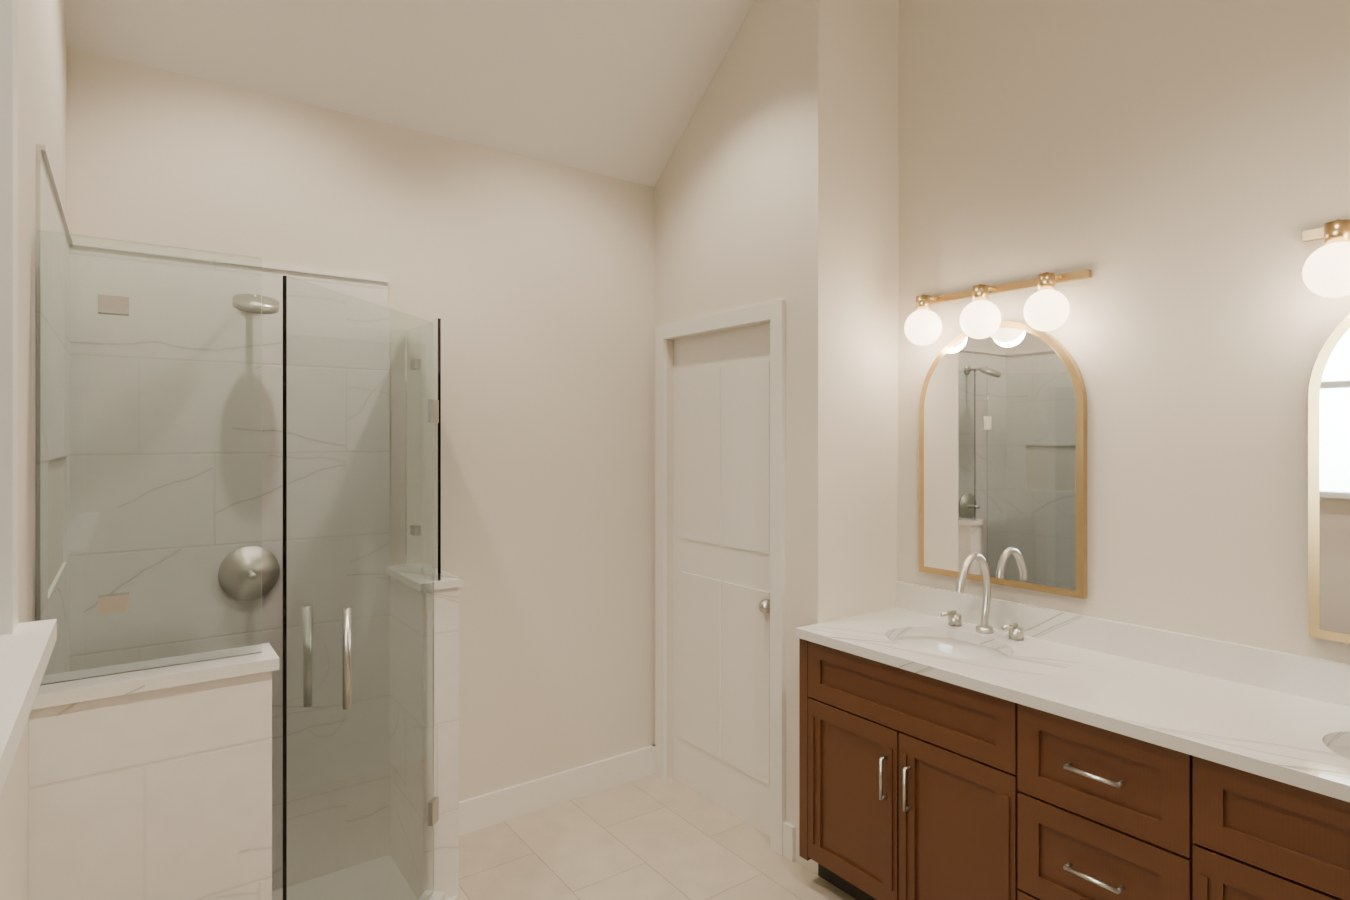
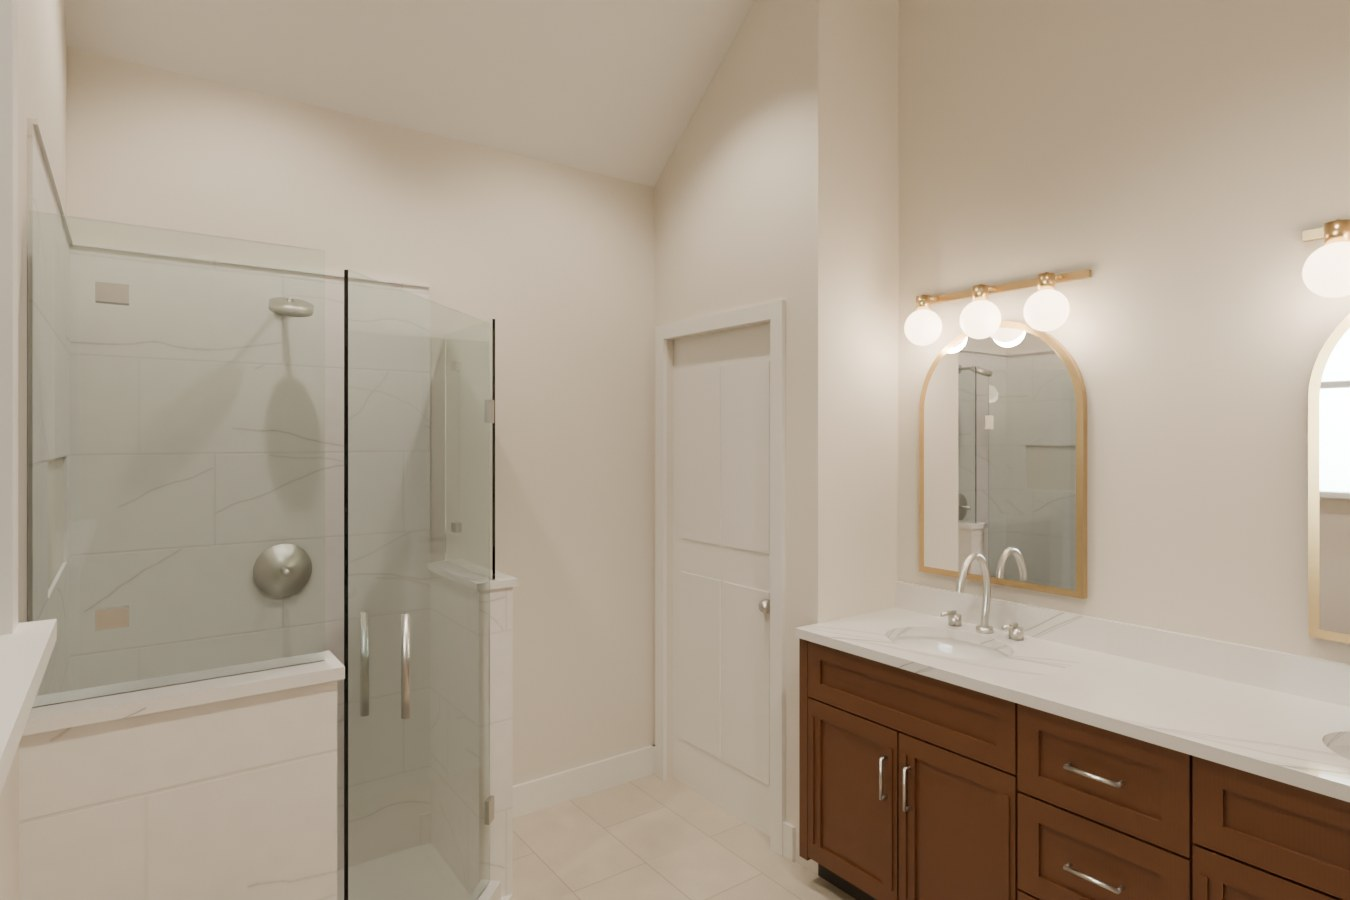
Olive Hill concept: Option 2 now 48x48 neo-angle; visible glass in walkthrough
Claude-Session: https://claude.ai/code/session_01SeE1aYPeiWt3ibgsh6fWaQ

diff --git a/concepts/olive-hill/walkthrough.html b/concepts/olive-hill/walkthrough.html
@@ -175,9 +175,9 @@ cyl(2.6,1.2,1.2,M.metal,84.5,78.6,D-6.6,Math.PI/2-0.45);
 cyl(2,2,0.1,M.metal,84.5,0.4,108);
 
 TARGET=scene;
-// ---------- OPTION 2: 42x42 neo-angle acrylic base, knee walls on both returns, neo-angle door ----------
+// ---------- OPTION 2: 48x48 neo-angle acrylic base, knee walls on both returns, neo-angle door ----------
 TARGET=optB;
-{ const X0=61, Y0=78, R=16, KW=5;
+{ const X0=55, Y0=78-6, R=20, KW=5;
   function prismXZ(pts,y0,y1,mat){ const sh=new THREE.Shape(); sh.moveTo(pts[0][0],pts[0][1]); for(const p of pts.slice(1)) sh.lineTo(p[0],p[1]); sh.lineTo(pts[0][0],pts[0][1]);
     const g=new THREE.ExtrudeGeometry(sh,{depth:y1-y0,bevelEnabled:false}); g.rotateX(Math.PI/2); g.translate(0,y1,0); const m=new THREE.Mesh(g,mat); m.receiveShadow=true; m.castShadow=true; optB.add(m); return m; }
   function seg(xa,za,xb,zb,th,y0,y1,mat){ const dx=xb-xa,dz=zb-za,L=Math.hypot(dx,dz),nx=-dz/L*th/2,nz=dx/L*th/2;
@@ -185,17 +185,24 @@ TARGET=optB;
   prismXZ([[X0,D],[X0,D-R],[W-R,Y0],[W,Y0],[W,D]],0,0.35,acryl);
   box(X0,X0+KW,0,42,D-R,D,M.tile); box(X0-0.5,X0+KW+0.5,42,43,D-R-0.5,D,M.quartz);
   box(W-R,W,0,42,Y0,Y0+KW,M.tile); box(W-R-0.5,W,42,43,Y0-0.5,Y0+KW+0.5,M.quartz);
-  glass(X0+2.3,X0+2.7,43,78,D-R+0.5,D-0.3); glass(W-R+0.5,W-0.3,43,78,Y0+2.3,Y0+2.7);
+  // glass: fixed panels on both knee walls, neo-angle door on the angle — with visible edges so it reads in 3D
+  const gNeo=new THREE.MeshPhysicalMaterial({color:'#dcebea',roughness:0.02,transparent:true,opacity:0.28,side:THREE.DoubleSide,envMapIntensity:1.5});
+  const edge=M.glassEdge;
+  box(X0+2.3,X0+2.7,43,78,D-R+0.5,D-0.3,gNeo,false); box(X0+2.2,X0+2.8,77.6,78,D-R+0.5,D-0.3,edge,false); box(X0+2.2,X0+2.8,43,78,D-R+0.3,D-R+0.6,edge,false);
+  box(W-R+0.5,W-0.3,43,78,Y0+2.3,Y0+2.7,gNeo,false); box(W-R+0.5,W-0.3,77.6,78,Y0+2.2,Y0+2.8,edge,false); box(W-R+0.3,W-R+0.6,43,78,Y0+2.2,Y0+2.8,edge,false);
+  for(const y of [48,72]){ box(X0+1.9,X0+3.1,y,y+1.4,D-6,D-4,M.metal,false); box(W-6,W-4,y,y+1.4,Y0+1.9,Y0+3.1,M.metal,false); }
   const dA=[X0+KW*0.5,D-R], dB=[W-R,Y0+KW*0.5];
-  seg(dA[0]+1.2,dA[1]-1.2,dB[0]-1.2,dB[1]+1.2,3,0,2.75,acryl);
-  seg(dA[0]+1.6,dA[1]-1.6,dB[0]-1.6,dB[1]+1.6,0.4,3,77,M.glass);
-  for(const sg of [-1,1]) cyl(0.4,0.4,10,M.metal,dB[0]-6+sg*1.6,40,dB[1]+6+sg*1.6);
+  seg(dA[0]+1.2,dA[1]-1.2,dB[0]-1.2,dB[1]+1.2,3,0,4,acryl);
+  seg(dA[0]+1.6,dA[1]-1.6,dB[0]-1.6,dB[1]+1.6,0.4,4.25,77,gNeo);
+  seg(dA[0]+1.6,dA[1]-1.6,dB[0]-1.6,dB[1]+1.6,0.6,76.6,77,edge); seg(dA[0]+1.6,dA[1]-1.6,dB[0]-1.6,dB[1]+1.6,0.6,4.25,4.65,edge);
+  for(const [y0,y1] of [[12,15],[64,67]]) seg(dA[0]+1.0,dA[1]-1.0,dA[0]+2.4,dA[1]-2.4,0.9,y0,y1,M.metal);
+  for(const sg of [-1,1]) cyl(0.4,0.4,10,M.metal,dB[0]-6+sg*1.1,40,dB[1]+6+sg*1.1);
   box(X0+KW,W,0,85,D-0.3,D,M.tile);
   box(W-0.3,W,0,85,Y0+KW,90,M.tile); box(W-0.3,W,0,85,114,D,M.tile); box(W-0.3,W,0,48,90,114,M.tile); box(W-0.3,W,60,85,90,114,M.tile);
   box(W+3,W+3.3,48,60,90,114,M.tile); box(W,W+3,47.6,48,90,114,M.quartz); box(W,W+3,60,60.3,90,114,M.tile);
-  cyl(3.6,3.6,0.5,M.metal,84,44,D-0.55,Math.PI/2); cyl(0.45,0.45,3,M.metal,84,44,D-2.3,Math.PI/2);
-  cyl(1.2,1.2,0.4,M.metal,84,80,D-0.5,Math.PI/2); cyl(0.4,0.4,6,M.metal,84,79.5,D-3.3,Math.PI/2.3); cyl(2.6,1.2,1.2,M.metal,84,78.6,D-6.6,Math.PI/2-0.45);
-  cyl(2,2,0.1,M.metal,90,0.4,104);
+  cyl(3.6,3.6,0.5,M.metal,80,44,D-0.55,Math.PI/2); cyl(0.45,0.45,3,M.metal,80,44,D-2.3,Math.PI/2);
+  cyl(1.2,1.2,0.4,M.metal,80,80,D-0.5,Math.PI/2); cyl(0.4,0.4,6,M.metal,80,79.5,D-3.3,Math.PI/2.3); cyl(2.6,1.2,1.2,M.metal,80,78.6,D-6.6,Math.PI/2-0.45);
+  cyl(2,2,0.1,M.metal,86,0.4,101);
   box(W-0.6,W,0,5,60,Y0,M.trim,false);
 }
 TARGET=scene;
@@ -227,10 +234,10 @@ const cam=new THREE.PerspectiveCamera(70,innerWidth/innerHeight,1,2000);
 function fitFov(){ const asp=innerWidth/innerHeight; const h=THREE.MathUtils.degToRad(82); cam.fov=Math.min(80,Math.max(55,THREE.MathUtils.radToDeg(2*Math.atan(Math.tan(h/2)/asp)))); cam.aspect=asp; cam.updateProjectionMatrix(); }
 fitFov();
 const EYE=62; let yaw=0,pitch=-0.1; const pos=new THREE.Vector3(); let target=null;
-const VIEWS={entry:[[44,EYE,4],[60,50,110]],shower:[[22,EYE,50],[88,40,100]],inside:[[82,EYE,72],[84,44,D]],vanity:[[86,EYE,60],[0,46,40]]};
+const VIEWS={entry:[[44,EYE,4],[60,50,110]],shower:[[22,EYE,50],[88,40,100]],inside:[[83,EYE,84],[84,44,D]],vanity:[[86,EYE,60],[0,46,40]]};
 function lookAt(p,l){ const d=new THREE.Vector3(...l).sub(new THREE.Vector3(...p)); yaw=Math.atan2(-d.x,-d.z); pitch=Math.atan2(d.y,Math.hypot(d.x,d.z)); }
 function clampPos(p){ p.x=Math.max(p.z>80?24:25,Math.min(98,p.x)); p.z=Math.max(5,Math.min(115,p.z));
-  if(typeof OPT!=='undefined' && OPT===2){ const inS=(p.x-61)+(p.z-78)>58 && p.x>66 && p.z>83; if(!inS && (p.x-61)+(p.z-78)>50) { const k=((p.x-61)+(p.z-78)-50)/2; p.x-=k; p.z-=k; } return p; }
+  if(typeof OPT!=='undefined' && OPT===2){ const s=p.x+p.z, inS=s>166 && p.x>61 && p.z>78; if(!inS && s>146){ const k=(s-146)/2; p.x-=k; p.z-=k; } return p; }
   const inShower=p.x>68 && p.z>64;
   if(!inShower && p.x>56 && p.z>64) p.x=56;                    // knee wall
   if(!inShower && p.z>55 && p.z<64 && p.x>88) p.z=55;          // fixed glass at the entry
@@ -238,7 +245,7 @@ function clampPos(p){ p.x=Math.max(p.z>80?24:25,Math.min(98,p.x)); p.z=Math.max(
 function go(n){ const [p,l]=VIEWS[n]; target={pos:new THREE.Vector3(...p),view:l}; }
 pos.set(...VIEWS.entry[0]); lookAt(VIEWS.entry[0],VIEWS.entry[1]);
 document.querySelectorAll('[data-v]').forEach(b=>b.addEventListener('click',()=>go(b.dataset.v)));
-let OPT=1; const optBtn=document.getElementById('opt'); optBtn.addEventListener('click',()=>{ OPT=OPT===1?2:1; optA.visible=OPT===1; optB.visible=OPT===2; optBtn.textContent=OPT===1?'Option 1: 42×60 knee wall':'Option 2: neo-angle'; });
+let OPT=1; const optBtn=document.getElementById('opt'); optBtn.addEventListener('click',()=>{ OPT=OPT===1?2:1; optA.visible=OPT===1; optB.visible=OPT===2; optBtn.textContent=OPT===1?'Option 1: 42×60 knee wall':'Option 2: 48×48 neo-angle'; });
 const styleBtn=document.getElementById('style'); styleBtn.addEventListener('click',()=>{ const o=!styled.visible; styled.visible=o; styleBtn.textContent=o?'Styling on':'Styling off'; styleBtn.classList.toggle('on',o); styleBtn.setAttribute('aria-pressed',o); });
 let drag=null; const el=renderer.domElement; const ray=new THREE.Raycaster();
 el.addEventListener('pointerdown',e=>{ drag={x:e.clientX,y:e.clientY,moved:0}; el.setPointerCapture(e.pointerId); });

diff --git a/concepts/olive-hill/index.html b/concepts/olive-hill/index.html
@@ -80,7 +80,7 @@ footer a{color:var(--label)}
   <section class="sel">
     <div class="eyebrow" style="color:var(--label)">Shower Option 2</div>
     <h2>Neo-angle shower</h2>
-    <p>Same corner, shaped differently: a 42×42 neo-angle acrylic base with short tiled knee walls on both sides, glass on top, and a glass door on the angled front. It's a little smaller inside than Option 1, but it opens up more floor in front of the vanity and by the window.</p>
+    <p>Same corner, shaped differently: a 48×48 neo-angle acrylic base with short tiled knee walls on both sides, glass on top, and a glass door on the angled front. You get roughly 43" of standing room each way, and the angled front keeps the floor open in front of the vanity.</p>
   </section>
 
   <figure>
